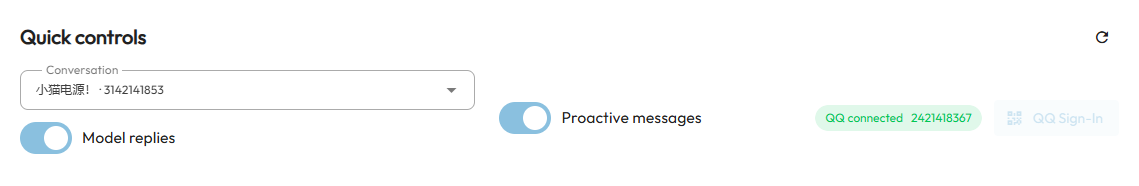
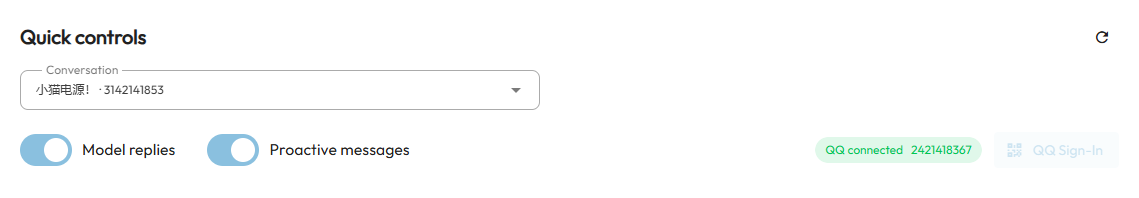
fix: align dashboard quick controls in a shared action row

diff --git a/dashboard/src/components/shared/BotQuickControls.vue b/dashboard/src/components/shared/BotQuickControls.vue
@@ -8,18 +8,18 @@
     <v-alert v-if="controlsError" type="error" variant="tonal" density="compact" class="mb-3">
       {{ controlsError }}
     </v-alert>
-    <div class="quick-controls__grid">
-      <div class="quick-controls__reply">
-        <v-select v-model="sessionKey" :items="sessions" item-value="session_key" :item-title="sessionTitle"
-          :label="tm('quickControls.session')" density="compact" variant="outlined" hide-details
-          :disabled="loading || savingReply" />
+    <v-select v-model="sessionKey" :items="sessions" item-value="session_key" :item-title="sessionTitle"
+      class="quick-controls__session" :label="tm('quickControls.session')" density="compact" variant="outlined"
+      hide-details :disabled="loading || savingReply" />
+    <div class="quick-controls__actions">
+      <div class="quick-controls__switches">
         <v-switch :model-value="replyEnabled" :label="tm('quickControls.reply')" color="primary"
           :disabled="loading || savingReply || !selectedSession?.native || !controlsReady" :loading="savingReply"
           hide-details inset data-testid="quick-reply-switch" @update:model-value="setReply" />
+        <v-switch :model-value="proactiveEnabled" :label="tm('quickControls.proactive')" color="primary"
+          :disabled="loading || savingProactive || !contact" :loading="savingProactive" hide-details inset
+          data-testid="quick-proactive-switch" @update:model-value="setProactive" />
       </div>
-      <v-switch :model-value="proactiveEnabled" :label="tm('quickControls.proactive')" color="primary"
-        :disabled="loading || savingProactive || !contact" :loading="savingProactive" hide-details inset
-        data-testid="quick-proactive-switch" @update:model-value="setProactive" />
       <div class="quick-controls__login">
         <v-chip :color="login?.online ? 'success' : 'warning'" size="small" variant="tonal">
           {{ loginLabel }}<span v-if="login?.account" class="ms-2">{{ login.account }}</span>
@@ -233,11 +233,14 @@ onUnmounted(() => { stopped = true; clearTimeout(polling); });
 
 <style scoped>
 .quick-controls { border-radius: 16px; }
-.quick-controls__grid { display: grid; grid-template-columns: minmax(240px, 1.3fr) minmax(150px, .7fr) minmax(200px, 1fr); align-items: center; gap: 24px; }
-.quick-controls__reply, .quick-controls__login { min-width: 0; }
+.quick-controls__session { max-width: 520px; margin-bottom: 12px; }
+.quick-controls__actions { display: flex; flex-wrap: wrap; align-items: center; justify-content: space-between; gap: 12px 24px; }
+.quick-controls__switches { display: flex; flex-wrap: wrap; align-items: center; gap: 8px 32px; min-width: 0; }
+.quick-controls__switches :deep(.v-switch) { flex: 0 0 auto; }
 .quick-controls__login { display: flex; flex-wrap: wrap; justify-content: flex-end; align-items: center; gap: 12px; }
-@media (max-width: 960px) {
-  .quick-controls__grid { grid-template-columns: minmax(0, 1fr); gap: 8px; }
+@media (max-width: 600px) {
+  .quick-controls__actions { flex-direction: column; align-items: stretch; }
+  .quick-controls__switches { column-gap: 16px; }
   .quick-controls__login { justify-content: flex-start; }
 }
 </style>

diff --git a/changelogs/fish-dashboard-quick-controls.md b/changelogs/fish-dashboard-quick-controls.md
@@ -2,4 +2,6 @@
 
 The home page now provides private-conversation reply and companion proactive-message switches, together with QQ login status and an administrator-only QR sign-in dialog. Existing controls under Custom rules remain available; their conversation-service settings are reused by the home card.
 
+The conversation selector occupies its own row. The reply and proactive switches align with the login controls on desktop, with wrapping for smaller screens.
+
 NapCat login credentials are read by the server from the configured read-only file. Online status reads preserve the current QQ session, and QR refresh is an explicit action while logged out.
